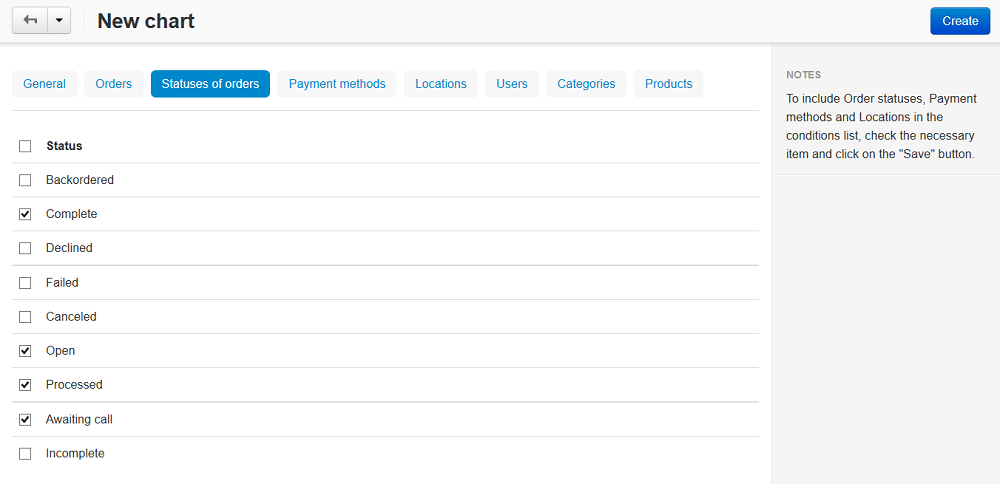
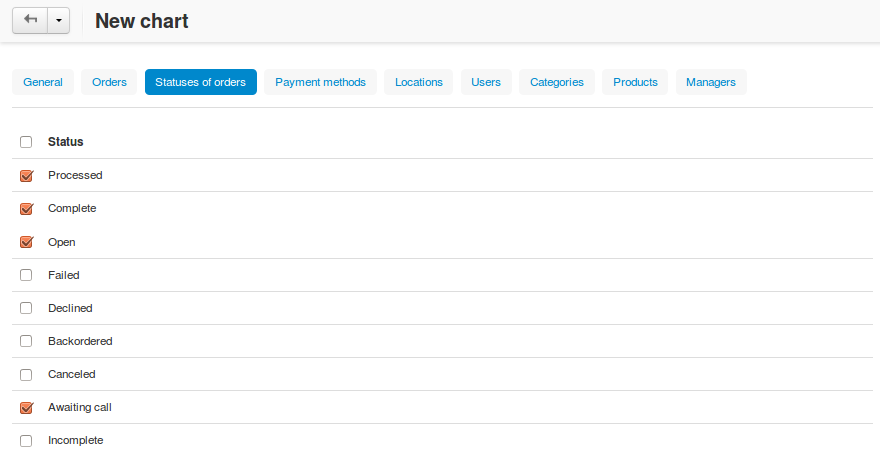
User Guide: Orders: Shipments: Described order managers and copying orders.

diff --git a/user_guide/orders/actions_on_orders/view_orders.rst b/user_guide/orders/actions_on_orders/view_orders.rst
@@ -2,29 +2,68 @@
 View Orders
 ***********
 
-When you open the **Orders → View orders** section, the system automatically lists all orders from the database, i.e. the orders that have ever been placed and not deleted. By default, the list is arranged according to the date the orders were placed with the most recent orders at the top. If necessary, you can rearrange the list according to the order IDs or statuses, names or email addresses of users who placed the orders, or order totals.
+When you open the **Orders → View orders** section, the system automatically lists all orders from the database, i.e. the orders that have ever been placed and not deleted. By default, the list is arranged according to the date when the orders were placed, with the most recent orders at the top.
 
-To display the orders that satisfy a certain criterion or a combination of multiple criteria only, use the form to the right of the order list. By default, the form allows you to filter orders against names and e-mail addresses of users who placed the orders and the range of order totals. To access more filtering criteria, expand the form by clicking **Advanced search**.
+.. note::
 
-If you filter orders against a particular search pattern regularly (e.g., to list all new orders that were paid with a gift certificate), you will find it convenient to save the pattern and add it to the list of pre-defined patterns appearing in the top left corner of the **View orders** section (see the picture below).
+    Beginning with CS-Cart & Multi-Vendor 4.3.7, the order list also includes the managers assigned to the orders, and the names of the customers' companies.
+
+.. image:: img/view_orders.png
+    :align: center
+    :alt: View the list of orders in the Administration panel under Orders → View orders.
+
+.. hint::
+
+     Click on the name of the corresponding column to sort orders by IDs, statuses, names, totals, or email addresses of users who placed the orders.
+
+Use the search form on the right to display only those orders that satisfy a certain criterion or a combination of multiple criteria. By default, the form allows you to filter orders by:
+
+* customer's name.
+
+* customer's email address.
+
+* the range of order totals.
+
+.. hint::
+
+    Click **Advanced search** for more filtering criteria. Beginning with CS-Cart & Multi-Vendor 4.3.7, you can search orders by the company of the customer (if specified).
+
+If you filter orders against a particular search pattern regularly (e.g., to list all new orders that were paid with a gift certificate), you can save the pattern. It will appear the list of predefined patterns in the top left corner of the **View orders** section (see the picture below).
 
 .. image:: img/orders_01.png
     :align: center
     :alt: Saved Searches
 
-In the **View orders** section, you can carry out the following tasks:
+In the **View orders** section, you can do the following:
 
-*	Display a sorted list of all orders in the store or display a filtered list of orders that meets your search pattern only.
-*	View orders that were not completed (click the gear button and choose **Incomplete orders**).
+* Display a sorted list of all orders in the store or display a filtered list of orders that meets your search pattern only.
+
+* View orders that were not completed—click the gear button and choose **Incomplete orders**.
 	
-	An order receives the status *Incomplete* after a customer has placed the order until the order has been processed by a payment system. For example, during the period when a customer is entering credit card details on the payment system website up until the customer is redirected back to your store.
+.. note::
+  
+    An order has the **Incomplete** status while it is being processed by a payment system. For example, an order has this status while a customer is entering credit card details on the payment system website and up until the customer is redirected back to your store.
 
-*	Change order statuses on the fly.
-*	View and edit order details.
-*	Add comments to the order which are visible to the customer who placed the order.
-*	Export order details in the CSV, Quickbooks, and MYOB formats. If the MYOB and Quickbooks add-ons are installed and configured.
-*	Get orders from eBay. If the eBay synchronization add-on is installed and configured.
-*	Print invoices and package slips both separately for each order or in bulk.
-*	Remove credit card info (if any).
-*	Create orders.
-*	Delete existing orders.
+* Change order statuses on the fly.
+
+* View and edit order details.
+
+* Add comments to the order which are visible to the customer who placed the order.
+
+* Export order details in the CSV, Quickbooks, and MYOB formats. If the MYOB and Quickbooks add-ons are installed and configured.
+
+* Get orders from eBay. If the eBay synchronization add-on is installed and configured.
+
+* Print invoices and package slips both separately for each order or in bulk.
+
+* Remove credit card info (if any).
+
+* Create orders.
+
+* Delete existing orders.
+
+* Copy orders.
+
+.. note::
+
+    Copying orders in the Administration panel was not available until CS-Cart & Multi-Vendor 4.3.7.

diff --git a/user_guide/orders/sales_reports/create_chart.rst b/user_guide/orders/sales_reports/create_chart.rst
@@ -2,12 +2,18 @@
 How To: Create a Chart
 **********************
 
+.. note::
+
+    **Tutorial Difficulty: 1 / 3**
+
+
 Data charts must be assigned to a particular :doc:`report<../sales_reports/create_report>`.
 
 To add a chart to a report:
 
-*	In the **Orders → Sales reports** section, click the gear button and choose **Manage reports** to display a list of all available reports.
-*	Click the gear button corresponding to the required report and choose **Edit** from the drop-down list.
+1. In the Administration panel, go to **Orders → Sales reports**.
+2. Click the gear button and choose **Manage reports** to show the list of all available reports.
+3. Click the gear button of the required report and choose **Edit** from the drop-down list.
 
 .. image:: img/reports_02.png
     :align: center
@@ -15,33 +21,44 @@ To add a chart to a report:
 
 This will open a page with the report details. The **Charts** tab contains a list of assigned reports (if any).
 
-*	Click the **+** button.
+4. Click the **+** button to will open a the chart creation form.
 
 .. image:: img/reports_03.png
     :align: center
     :alt: Add a chart
 
-This will open a form with the chart details.
+5. Fill in the form.
 
-*	Complete the form.
+   * Use the **General** tab to define the chart scope:
 
-Use the **General** tab to define the chart scope:
+     * **Name**—the name of the chart as it will appear in the reports.
+     * **Position**—the position of the chart relatively to the position of other charts in the report.
+     * **Type**—how the data should be represented: graphically or in a table.
+     * **Object to analyze**—the type of data to be reported on (users, orders and order statuses, products, categories, etc.)
+     * **Value to display**—the aspect to be analyzed.
+     * **Time interval**—the analyzed periods (day, week, month, year). Is not applicable to the chart type *Graphic [Pie 3D]*.
 
-*	**Name** - Name of the chart as it will appear in the reports.
-*	**Position** - Position of the chart relatively to the position of the charts in the report.
-*	**Type** - How the data should be represented: graphically or in a table.
-*	**Object to analyze** - Type of data to be reported on (users, orders and order statuses, products, categories, etc.)
-*	**Value to display** - Aspect to be analyzed.
-*	**Time interval** - Analyzed periods (day, week, month, year). Is not applicable to the chart type *Graphic [Pie 3D]*.
+   * Use the other tabs to filter or limit chart content:
 
-The tabs **Orders**, **Statuses of orders**, **Payment methods**, **Locations**, **Users**, **Categories**, and **Products** are used to filter or limit chart contents so that it covers specific items only.
+     * **Orders**,
+     * **Statuses of orders**,
+     * **Payment methods**,
+     * **Locations**, 
+     * **Users**, 
+     * **Categories**, 
+     * **Products**,
+     * **Managers**.
 
-For example, in the **Statuses of orders** tab you can select to show statistics on orders with specific statuses only, and in the **Products** tab you can choose the products which statistics should be represented in the chart. Statistics on the unchosen products will not be included in the chart.
+     .. note::
+
+         The **Managers** tab was not available until the introduction of :doc:`managers <../actions_on_orders/assign_manager>` in CS-Cart & Multi-Vendor 4.3.7.  
+
+     For example, the **Statuses of orders** tab allows you to show statistics on orders with specific statuses only. The **Products** tab allows you to choose the products, the statistics of which should be represented in the chart. Statistics on the unchosen products will not be included in the chart.
 
 .. image:: img/reports_04.png
     :align: center
     :alt: Statuses
 
-*	Click the **Create** button.
+6. Click the **Create** button.
 
 The new chart will be listed among the other charts.

diff --git a/user_guide/orders/actions_on_orders/assign_manager.rst b/user_guide/orders/actions_on_orders/assign_manager.rst
@@ -1,0 +1,43 @@
+*********************************
+How To: Assign Managers to Orders
+*********************************
+
+.. note::
+
+    **Tutorial Difficulty: 1 / 3**
+    
+    This functionality was not available before CS-Cart & Multi-Vendor 4.3.7.
+
+You can assign administrators to orders as managers. This is useful if your staff have their own administrator accounts in your store. You can also make use of this functionality in the :doc:`sales reports <../sales_reports/index>` to :doc:`create charts <../sales_reports/create_chart>` that include orders assigned to the specified managers.
+
+.. image:: img/manager_on_the_list.png
+    :align: center
+    :alt: The name of the manager assigned to the order appears on the order list below the order status.
+
+.. note::
+
+    The administrator who creates an order in the Administration panel is automatically assigned as a manager for that order.
+
+To assign a manager to an existing order:
+
+1. In the Administration panel, go to **Orders → View orders → <Desired order>**.
+
+2. Find the **Manager** field on the right and click the **+** button.
+
+.. image:: img/add_manager.png
+    :align: center
+    :alt: Use the plus button next to the Manager field on the right to add a manager.
+
+3. You'll see a pop-up window where you can select the administrator assigned to the order. If you have too many administrators, you can use the search to make the list shorter.
+
+4. Once you've selected the administrator, click **Choose**.
+
+.. image:: img/select_manager.png
+    :align: center
+    :alt: Use the radio buttons to select the administrator you want to assign to the order, then click the Choose button.
+
+5. Click **Save changes**.
+
+.. note::
+
+    Once selected, a manager can't be removed from the order. However, you can use the **+** button again to choose a different manager. This removes the previous manager from the order.

diff --git a/user_guide/orders/actions_on_orders/copy_orders.rst b/user_guide/orders/actions_on_orders/copy_orders.rst
@@ -1,0 +1,37 @@
+*******************
+How To: Copy Orders
+*******************
+
+.. note::
+
+    **Tutorial Difficulty: 1 / 3**
+    
+    This functionality was not available before CS-Cart & Multi-Vendor 4.3.7.
+
+You can copy orders, so that you don't have to enter customer's information or specify the products ordered again.
+
+To copy an order, follow these steps:
+
+1. In the Administration panel, go to **Orders → View orders**.
+
+2. Click the **gear** button of the order you want to copy.
+
+3. Choose **Copy**.
+
+.. image:: img/copy_order_list.png
+    :align: center
+    :alt: Copy orders right on the order list page.
+
+You can also use the **gear** button on the order detail page under **Orders → View orders → <Desired order>**.
+
+.. image:: img/copy_order_detailed.png
+    :align: center
+    :alt: Copy orders on the order detail page.
+
+4. You will be taken to the order creation page, but the information from the copied order will be specified there.
+
+5. Make any changes you need and click **Create**.
+
+.. image:: img/copy_order.png
+    :align: center
+    :alt: You'll be taken to the order creation page when you copy an order.
